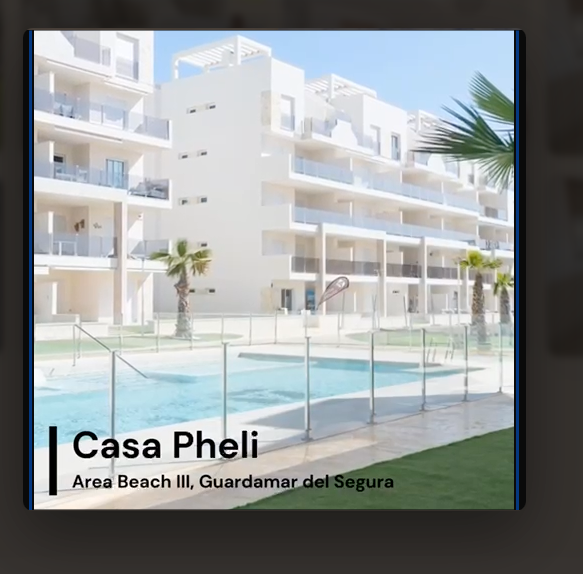
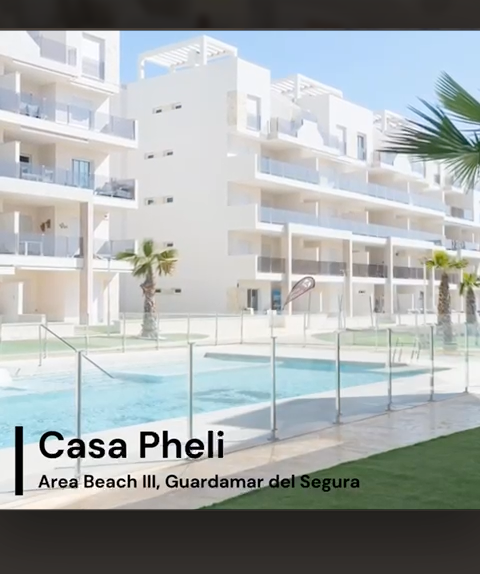
Galerij-01: randen uit screenshot weggeknipt; tap-highlight uit
Made-with: Cursor

diff --git a/public/galerij.html b/public/galerij.html
@@ -13,7 +13,7 @@
   <link href="https://fonts.googleapis.com/css2?family=Cormorant+Garamond:wght@500;600&family=DM+Sans:wght@400;500;600&display=swap" rel="stylesheet" />
   <link rel="preload" as="image" href="/assets/logo-casa-pheli-header.jpg" fetchpriority="high" />
   <link rel="preload" as="image" href="/assets/galerij-hero-balkon.png" fetchpriority="high" />
-  <link rel="stylesheet" href="/styles.css?v=276" />
+  <link rel="stylesheet" href="/styles.css?v=277" />
 </head>
 <body id="page-top">
   <header class="site-header">
@@ -71,12 +71,12 @@
         <div class="gallery-grid">
           <button type="button" class="gallery-item" data-lightbox aria-label="Foto 1 vergroten">
             <img
-              src="/assets/gallery/galerij-01.png?v=2"
+              src="/assets/gallery/galerij-01.png?v=3"
               alt="Area Beach III, Guardamar del Segura — zwembad en residentie Casa Pheli"
               loading="eager"
               fetchpriority="low"
               decoding="async"
-              width="583"
+              width="480"
               height="574"
             />
           </button>

diff --git a/public/styles.css b/public/styles.css
@@ -2207,6 +2207,7 @@ h2#voorzieningen-title {
   border: none;
   background: var(--sand-deep);
   cursor: zoom-in;
+  -webkit-tap-highlight-color: transparent;
   box-shadow: 0 6px 22px rgba(61, 52, 41, 0.1);
   transition:
     box-shadow 0.25s ease,
